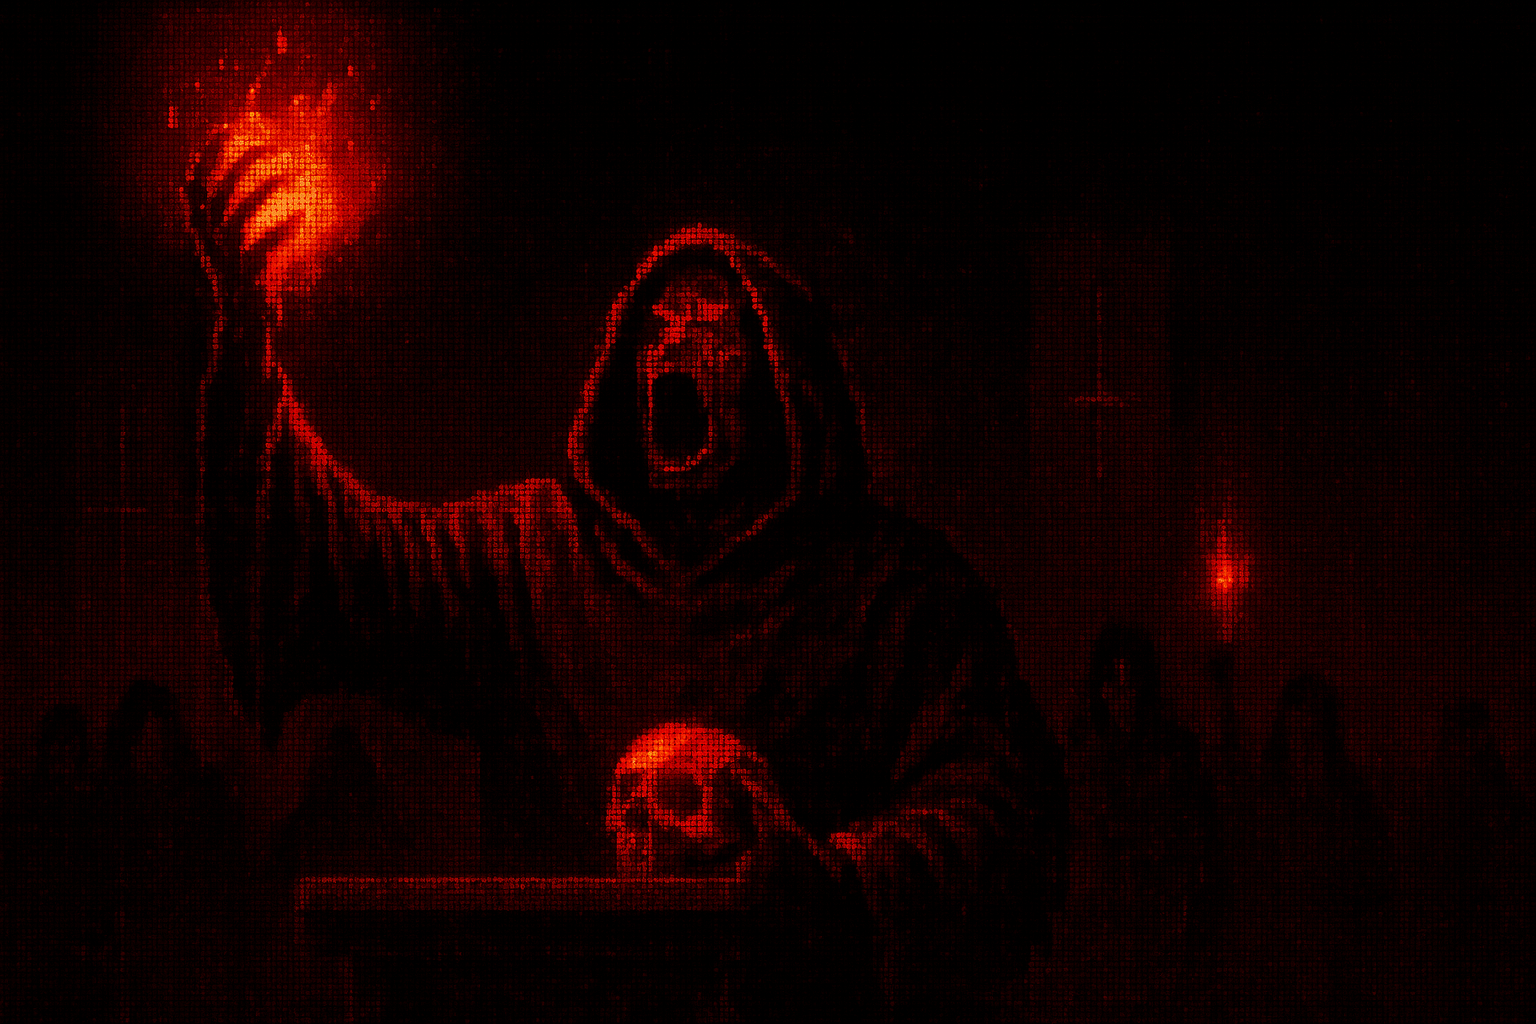
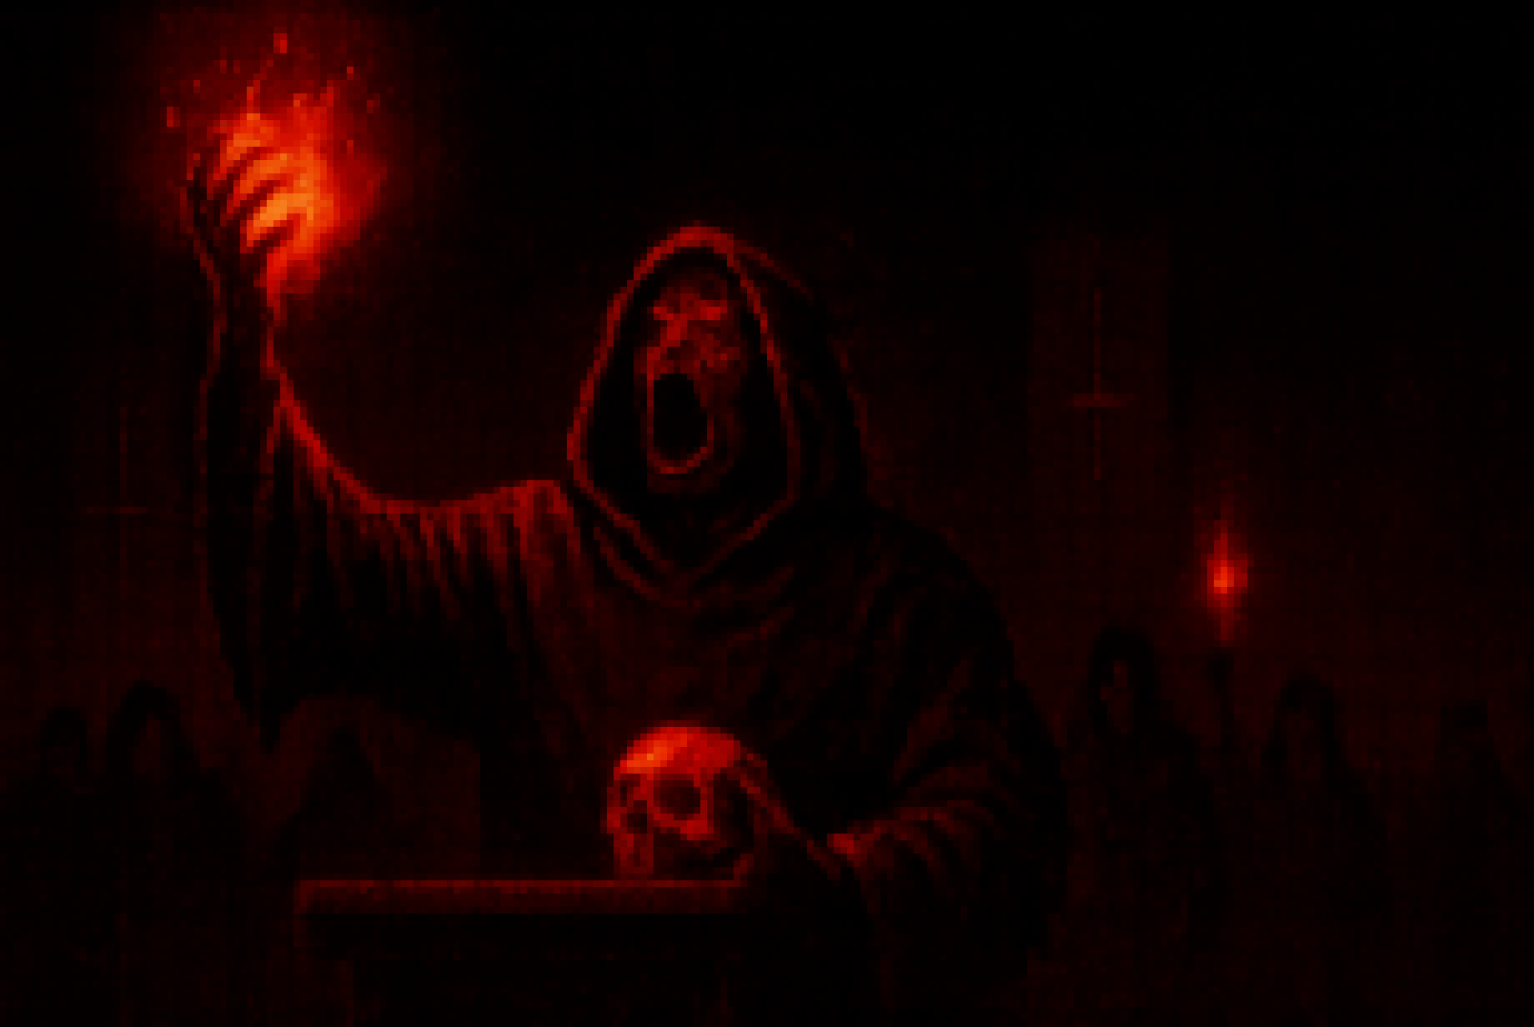
Replace original wallpapers with pixel art versions
- Replaced high-res originals with authentic pixel art versions
- Wallpapers now have retro pixelated aesthetic
- Reduced confusion by having only one version of each wallpaper
- Original wallpapers backed up locally but removed from repo

diff --git a/README.md b/README.md
@@ -16,7 +16,7 @@ omarchy-theme-install https://github.com/potable-anarchy/omarchy-demonic-theme
 
 - **Dark red color palette** with very dark backgrounds for excellent contrast
 - **Brightened red text styling** across all applications for improved readability
-- **8 atmospheric wallpapers** included with demonic/ritual themes (4 original + 4 authentic pixel art versions)
+- **4 authentic pixel art wallpapers** with demonic/ritual themes
 - **Theme thumbnail** for easy identification in theme selector
 - **Complete application coverage**:
   - Terminal (Alacritty)
@@ -56,6 +56,6 @@ omarchy-theme-remove demonic
 ## What's Included
 
 - **Configuration files** for all major Omarchy applications
-- **8 high-quality wallpapers** (4 original + 4 authentic pixel art versions)
+- **4 pixel art wallpapers** (1-demonic.png through 4-demonic.png)
 - **Theme thumbnail** for the theme selector
 - **Consistent color scheme** across terminal, desktop, notifications, and system UI
